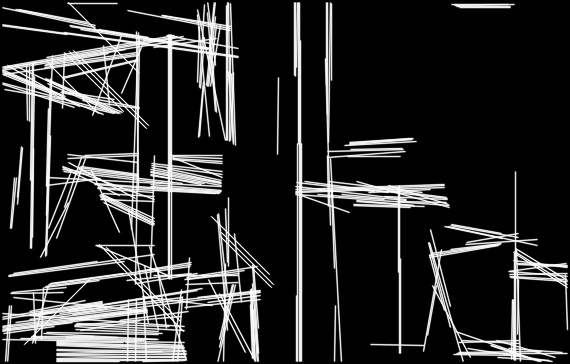
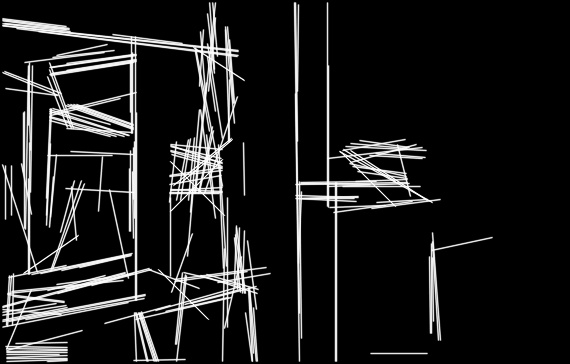
Adding sources + changes

diff --git a/src/filtersPackage/Filters.java b/src/filtersPackage/Filters.java
@@ -5,6 +5,9 @@
  */
 package filtersPackage;
 
+import java.util.ArrayList;
+import java.util.HashMap;
+import java.util.List;
 import org.bytedeco.javacpp.*;
 import static org.bytedeco.javacpp.opencv_core.CV_16S;
 import static org.bytedeco.javacpp.opencv_core.*;
@@ -23,9 +26,19 @@ import static org.bytedeco.javacpp.opencv_highgui.*;
 public class Filters implements Runnable {
 
     private final String pathimage;
+    private final List<Line> line_list;
+    private String outputFile;
 
     public Filters(String pathimage) {
         this.pathimage = pathimage;
+        this.line_list = new ArrayList<>();
+        this.outputFile = "";
+    }
+
+    public Filters(String pathimage, String outputFile) {
+        this.pathimage = pathimage;
+        this.line_list = new ArrayList<>();
+        this.outputFile = outputFile;
     }
 
     /**
@@ -52,7 +65,7 @@ public class Filters implements Runnable {
         //Display the obtained image with the Sobel filter
         namedWindow("Sobel Filter - Simple Edge Detector", WINDOW_NORMAL);
         imshow("Sobel Filter - Simple Edge Detector", sobelFltr);
-        imwrite("fusion\\Sobel.jpg", sobelFltr);
+        imwrite(this.outputFile + "\\Sobel.jpg", sobelFltr);
 
         //Call the method to apply Hough transform on the image given by the result of the Sobel filter
         houghTrs = this.getHoughPTransform(sobelFltr);
@@ -60,14 +73,14 @@ public class Filters implements Runnable {
         //Display the obtained image with the hough transform
         namedWindow("Hough Transform", WINDOW_NORMAL);
         imshow("Hough Transform", houghTrs);
-        imwrite("fusion\\HoughTrs.jpg", houghTrs);
+        imwrite(this.outputFile + "\\HoughTrs.jpg", houghTrs);
 
         imgPyramid = this.imagePyramid(src);
 
         //Display the obtained image with the pyramidal transformation to zoom down
         namedWindow("Pyramid Zoom Down", WINDOW_NORMAL);
         imshow("Pyramid Zoom Down", imgPyramid);
-        imwrite("fusion\\PyramidDown.jpg", imgPyramid);
+        imwrite(this.outputFile + "\\PyramidDown.jpg", imgPyramid);
 
         //Get the Hough Image
         Mat sobelRes = imread("fusion\\Sobel.jpg");
@@ -79,14 +92,14 @@ public class Filters implements Runnable {
         //Display the obtained image of the add of Source and Hough image
         namedWindow("Add Source and Hough", WINDOW_NORMAL);
         imshow("Add Source and Hough", addition);
-        imwrite("fusion\\AddImage.jpg", addition);
+        imwrite(this.outputFile + "\\AddImage.jpg", addition);
 
         imgPyramidAdd = this.imagePyramid(addition);
 
         //Display the obtained image with the pyramidal transformation to zoom down
         namedWindow("Pyramid Zoom Down Add", WINDOW_NORMAL);
         imshow("Pyramid Zoom Down Add", imgPyramidAdd);
-        imwrite("fusion\\PyramidDownAdd.jpg", imgPyramidAdd);
+        imwrite(this.outputFile + "\\PyramidDownAdd.jpg", imgPyramidAdd);
 
         waitKey(0);
     }
@@ -154,6 +167,7 @@ public class Filters implements Runnable {
         double rho = 1; // Distance resolution in pixel-related units
         double theta = Math.PI / 180; // Angle resolution measured in radians
         int threshold = 60; // Threshold parameter. A line is returned by the function if the corresponding accumulator value is greater than threshold
+        ArrayList<Line> tempList = new ArrayList<>();
 
         //Probabilistic Hough transform returns line segments rather than the whole lines.
         //Every segment is represented by starting and ending points 
@@ -162,7 +176,6 @@ public class Filters implements Runnable {
         //Color image in black to only have the lines visible
         cvSet(image, CV_RGB(0, 0, 0));
 
-        //IplImage avec image noir sur laquelle les lignes seront tracées.
         //For each line, get the coordonnates of the point 1 and 2
         for (int i = 0; i < lines.total(); i++) {
             Pointer line = cvGetSeqElem(lines, i);
@@ -170,17 +183,22 @@ public class Filters implements Runnable {
             CvPoint pt2 = new CvPoint(line).position(1);
 
             //Display the coordonnates and the number of the line
-//            System.out.println("- Line n° " + i);
-//            System.out.println("\tp1: " + pt1);
-//            System.out.println("\tp2: " + pt2 + "\n");
-
-            //Line method, draw a line between point 1 and 2 
-            cvLine(image, pt1, pt2, cvScalar(255, 255, 255, 255), thickness, CV_AA, shift); // Draws a line segment connecting two points
+            //System.out.println("- Line n° " + i);
+            //System.out.println("\tp1: " + pt1);
+            //System.out.println("\tp2: " + pt2 + "\n");
+            Line lineObject = new Line(pt1, pt2);
+            tempList.add(i, lineObject);
         }
+
+        //Test the lines neighbours
+        this.testNeighbours(tempList);
+
+        //Draw the lines on the image
+        this.drawLines(image, thickness, shift);
 
         //Convert IplImage to Mat
         Mat hough = new Mat(image);
-        
+
         //Image with lines draw on it
         return hough;
     }
@@ -210,5 +228,78 @@ public class Filters implements Runnable {
         //   pyrDown(output2, temp3, new opencv_core.Size(output2.cols() / 2, output2.rows() / 2), BORDER_DEFAULT);
         // Return the image divided by four thanks to the pyrDown method
         return temp;
+    }
+
+    /**
+     * Test distance between every line of the list of lines to reduce their
+     * number if they are too close to each other
+     *
+     * @param list
+     */
+    private void testNeighbours(ArrayList<Line> list) {
+
+        //Test a principal line's neighbours 
+        for (int i = 0; i < list.size(); i++) {
+
+            //Add the line to the final list
+            Line line1 = list.get(i);
+            this.line_list.add(line1);
+
+            //Test every neighbours
+            for (int j = 0; j < list.size(); j++) {
+
+                //Test if the tested line is not the current main line
+                if (!list.get(j).equals(list.get(i))) {
+                    Line line2 = list.get(j);
+                    //Distance gap
+                    int gap = 0;
+                    //Test of the distance between the two lines
+                    if (distancePoints(line1.getPt1(), line2.getPt1()) >= gap && distancePoints(line1.getPt2(), line2.getPt2()) >= gap) {
+                        //If its far, add it to the final list
+                        this.line_list.add(line2);
+
+                    } else {
+                        list.remove(j);
+                    }
+                }
+            }
+        }
+
+    }
+
+    /**
+     * Gives the distance between two points of the image. Used to calculate
+     * distance between two lines
+     *
+     * @param pt1
+     * @param pt2
+     * @return
+     */
+    private double distancePoints(CvPoint pt1, CvPoint pt2) {
+
+        double x = Math.pow(pt1.x() - pt2.x(), 2);
+        double y = Math.pow(pt1.y() - pt2.y(), 2);
+
+        return Math.sqrt(x + y);
+    }
+
+    /**
+     * Draw the lines for the Hough Transform using the lines list
+     *
+     * @param image
+     * @param thickness
+     * @param shift
+     */
+    private void drawLines(IplImage image, int thickness, int shift) {
+
+        for (int i = 0; i < this.line_list.size(); i++) {
+
+            CvPoint pt1 = this.line_list.get(i).getPt1();
+            CvPoint pt2 = this.line_list.get(i).getPt2();
+
+            //Line method, draw a line between point 1 and 2 
+            cvLine(image, pt1, pt2, cvScalar(255, 255, 255, 255), thickness, CV_AA, shift); // Draws a line segment connecting two points
+        }
+
     }
 }

diff --git a/src/segmentation/RegionGrowing.java b/src/segmentation/RegionGrowing.java
@@ -24,6 +24,7 @@ import static org.bytedeco.javacpp.opencv_imgcodecs.imwrite;
 /**
  *
  * @author pierre.renard
+ * @version 1.3
  */
 public class RegionGrowing implements Runnable {
 
@@ -182,28 +183,32 @@ public class RegionGrowing implements Runnable {
     }
 
     /**
-     * Color the image depending on the regions
+     * Color the regions of the source image
      *
      * @return
      */
     private IplImage color() {
 
         IplImage clone = this.ipl.clone();
-        Collection<Region> values = this.regions_list.values();
-        Collection<Region> dark = this.rejected_regions.values();
-
-        values.forEach((r) -> {
-            //Total value of each color for each region
-            int totRed = (int) (Math.random() * 255);
-            int totGreen = (int) (Math.random() * 255);
-            int totBlue = (int) (Math.random() * 255);
-            //Calls a method to color a list of pixels
-            List<Pixel> listPixel = r.getMembers();
-            this.regionColor(totRed, totGreen, totBlue, listPixel, clone);
+        Collection<Region> regionValues = this.regions_list.values();
+        Collection<Region> rejectedRegionsValues = this.rejected_regions.values();
+        
+        //Foreach loop 
+        regionValues.forEach((region) -> {
+            //Random values of each color for each region
+            int redValue = (int) (Math.random() * 255);
+            int greenValue = (int) (Math.random() * 255);
+            int blueValue = (int) (Math.random() * 255);
+            //Create a list of pixels (region)
+            List<Pixel> listPixel = region.getMembers();
+            //Calls a method to color a list of pixels (region)
+            this.regionColor(redValue, greenValue, blueValue, listPixel, clone);
         });
 
-        dark.forEach((r) -> {
-            List<Pixel> listPixel = r.getMembers();
+        rejectedRegionsValues.forEach((region) -> {
+            //Create a list of pixels (region)
+            List<Pixel> listPixel = region.getMembers();
+            //Calls a method to color a list of pixels (region)
             this.regionColor(0, 0, 0, listPixel, clone);
         });
 
@@ -215,13 +220,16 @@ public class RegionGrowing implements Runnable {
      * Color all the pixels of a region with the average color of all those
      * pixels. Sub function only used with the global coloring function.
      *
-     * @param red
-     * @param green
-     * @param blue
-     * @param index
+     * @param red Amount of red in the region
+     * @param green Amount of green in the region
+     * @param blue Amount of blue in the region
+     * @param listPixel Represents the region
+     * @param clone Clone of the basic image
      */
     private void regionColor(int red, int green, int blue, List<Pixel> listPixel, IplImage clone) {
+        //Create an indexer for the image
         UByteIndexer index = clone.createIndexer();
+        //Apply colorization on each pixel of the list
         for (int i = 0; i < listPixel.size(); i++) {
             Pixel pix = listPixel.get(i);
 
@@ -229,7 +237,8 @@ public class RegionGrowing implements Runnable {
             index.put(pix.getY(), pix.getX(), 1, green);
             index.put(pix.getY(), pix.getX(), 2, blue);
         }
-        index.release();
+        
+        index.release(); //Memory release
     }
 
     /**

diff --git a/src/filtersPackage/Line.java b/src/filtersPackage/Line.java
@@ -1,0 +1,47 @@
+/*
+ * To change this license header, choose License Headers in Project Properties.
+ * To change this template file, choose Tools | Templates
+ * and open the template in the editor.
+ */
+package filtersPackage;
+
+import org.bytedeco.javacpp.opencv_core.CvPoint;
+
+/**
+ *
+ * @author pierre.renard
+ * @version 1.0
+ */
+public class Line {
+    
+    private CvPoint pt1;
+    private CvPoint pt2;
+    
+    /**
+     * 
+     * @param pt1
+     * @param pt2 
+     */
+    public Line(CvPoint pt1, CvPoint pt2){
+        this.pt1 = pt1;
+        this.pt2 = pt2;
+    }
+
+    /**
+     * 
+     * @return 
+     */
+    public CvPoint getPt1() {
+        return pt1;
+    }
+
+    /**
+     * 
+     * @return 
+     */
+    public CvPoint getPt2() {
+        return pt2;
+    }
+    
+}
+ 

diff --git a/src/undistortion/main.java b/src/undistortion/main.java
@@ -31,7 +31,9 @@ public class main {
         
         String img_path = "testSobelMulti.jpg";       
         
-        String outputImg = "test_rg\\multi_result7.jpg";
+        String outputImg = "test_rg\\multi_result8.jpg";
+        
+        String outputFile = "\\fusion";
                         
         //RegionGrowing rg = new RegionGrowing(img_path,outputImg,6.5 ,true);
         
@@ -40,7 +42,7 @@ public class main {
 //        rg.run();
         
         
-        Filters f = new Filters(outputImg);
+        Filters f = new Filters(outputImg, outputFile);
         
         f.run();
         

diff --git a/src/segmentation/Pixel.java b/src/segmentation/Pixel.java
@@ -9,6 +9,7 @@ package segmentation;
  * This class represents a pixel, by his coordinates, from an image.
  *
  * @author pierre.renard
+ * @version 1.0
  */
 public class Pixel {
 

diff --git a/src/segmentation/Region.java b/src/segmentation/Region.java
@@ -12,6 +12,7 @@ import java.util.List;
  * This class represents a region of pixels of an image. 
  *
  * @author pierre.renard
+ * @version 1.0
  */
 class Region {
 
